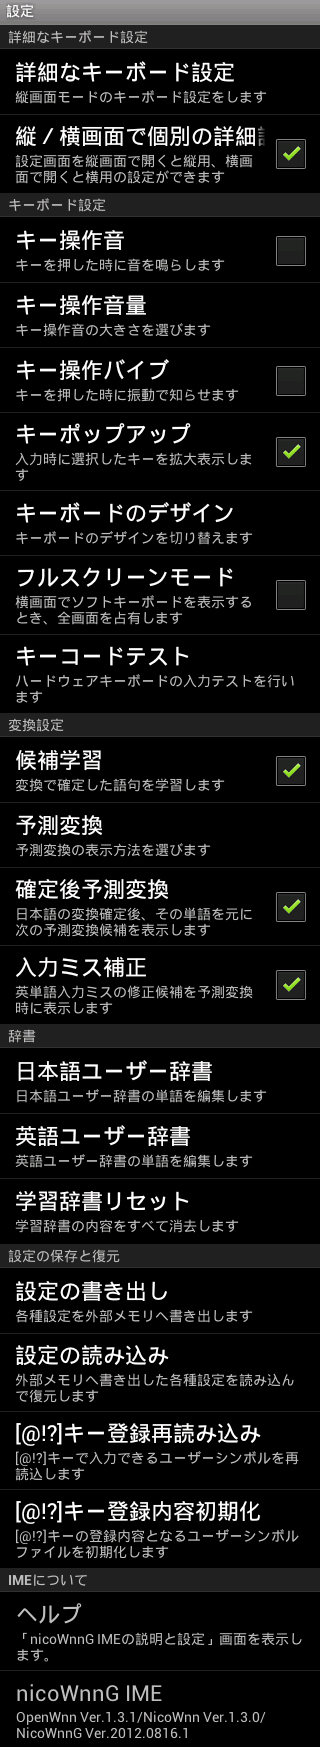
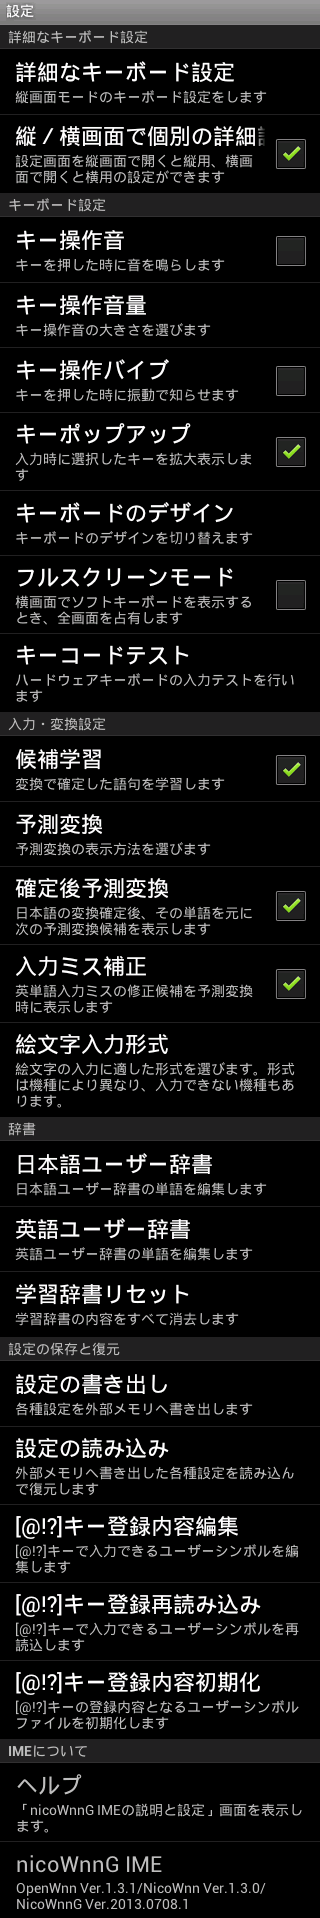
2013_0708_1

diff --git a/help/system.html b/help/system.html
@@ -136,7 +136,7 @@
 </TR>
 <TR>
 
-<TH id="config_003">変換設定</TH>
+<TH id="config_003">入力・変換設定</TH>
 
 <TD>
 
@@ -174,6 +174,103 @@
 <DT id="correct">入力ミス補正</DT>
 <DD>
 <DIV>チェックをONにすると、英単語入力時にミス修正候補を表示します。予測変換を行うときのみ有効です。</DIV>
+</DD>
+
+<DT id="emojitype">絵文字入力形式</DT>
+<DD>
+<DIV>絵文字の入力方法を選びます。</DIV>
+<TABLE border="1">
+<TR>
+<TH>NTTドコモ/ソフトバンクモバイル/au KDDI</TH>
+<TD>各社キャリア端末の絵文字に対応した入力をします。</TD>
+</TR>
+<TR>
+<TH>Unicode</TH>
+<TD>キャリアに依存しない絵文字に対応した入力をします。</TD>
+</TR>
+<TR>
+<TH>旧ドコモ互換（OS4.0未満用）</TH>
+<TD>OS2.3以下のNTTドコモ端末の絵文字に対応した入力をします。</TD>
+</TR>
+</TABLE>
+<DIV class="fyi">
+<DIV>絵文字の表示は、絵文字のフォントデータを持った端末のみで行うことができます。また、絵文字の入力は、絵文字の入力に対応したアプリでのみ行うことができます。</DIV>
+<DIV>作者の手許で入力・表示を確認した機種は以下の通りです。アプリは「<A HREF="https://play.google.com/store/apps/details?id=jp.sblo.pandora.jota.plus">Jota+</A>」を使用しています。</DIV>
+<TABLE border="1">
+<TR>
+<TH>キャリア</TH>
+<TH>機種</TH>
+<TH>OS</TH>
+<TH>OK/NG</TH>
+</TR>
+<TR>
+<TD>NTTドコモ</TD>
+<TD>Galaxy TAB SC-01C</TD>
+<TD>2.3.3</TD>
+<TD>OK</TD>
+</TR>
+<TR>
+<TD>NTTドコモ</TD>
+<TD>Xperia PLAY SO-01D</TD>
+<TD>2.3.4</TD>
+<TD>NG</TD>
+</TR>
+<TR>
+<TD>NTTドコモ</TD>
+<TD>Galaxy Note SC-02E</TD>
+<TD>4.0.4</TD>
+<TD>OK</TD>
+</TR>
+<TR>
+<TD>NTTドコモ</TD>
+<TD>ARROWS Me F-11D</TD>
+<TD>4.0.3</TD>
+<TD>OK</TD>
+</TR>
+<TR>
+<TD>ソフトバンクモバイル</TD>
+<TD>AQUOS PHONE 104SH</TD>
+<TD>4.0.3</TD>
+<TD>OK</TD>
+</TR>
+<TR>
+<TD>ソフトバンクモバイル</TD>
+<TD>STREAM 201HW</TD>
+<TD>4.0.4</TD>
+<TD>NG</TD>
+</TR>
+<TR>
+<TD>au KDDI</TD>
+<TD>AQUOS PHONE IS15SH</TD>
+<TD>4.0.4</TD>
+<TD>OK</TD>
+</TR>
+<TR>
+<TD>au KDDI</TD>
+<TD>IS01</TD>
+<TD>1.6</TD>
+<TD>NG</TD>
+</TR>
+<TR>
+<TD>Google</TD>
+<TD>Nexus S</TD>
+<TD>4.1.1</TD>
+<TD>NG</TD>
+</TR>
+<TR>
+<TD>Google</TD>
+<TD>Nexus 7</TD>
+<TD>4.2.2</TD>
+<TD>NG</TD>
+</TR>
+<TR>
+<TD>Google</TD>
+<TD>Nexus 10</TD>
+<TD>4.2.2</TD>
+<TD>NG</TD>
+</TR>
+</TABLE>
+</DIV>
 </DD>
 
 </DL>

diff --git a/help/faq.html b/help/faq.html
@@ -69,7 +69,7 @@
 <LI>絵文字の表示に対応したフォントを使用している。
 </OL>
 <DIV>Androidでは、すべてのアプリが絵文字の入力に対応しているわけではありません。お使いのアプリが絵文字の入力に対応しているかどうかは、アプリの製作者にお問い合わせください。</DIV>
-<DIV>また、アプリが絵文字の入力に対応していても、表示に使用しているフォントに絵文字の字形が内蔵されていないと、入力した絵文字が正しく表示されません（nicoWnnGのウィンドウ内では、絵文字の表示にはフォントに内蔵された字形ではなく、あらかじめ内部で用意した画像データを表示しています）。ご利用のフォントに絵文字の字形が内蔵されているかどうかは、フォントのメーカーなどにお問い合わせください。</DIV>
+<DIV>また、アプリが絵文字の入力に対応していても、表示に使用しているフォントに絵文字の字形が内蔵されていないと、入力した絵文字が正しく表示されません。ご利用のフォントに絵文字の字形が内蔵されているかどうかは、フォントのメーカーなどにお問い合わせください。</DIV>
 </DD>
 
 

diff --git a/help/index.html b/help/index.html
@@ -96,6 +96,19 @@
 <DL class="item">
 
 
+<DT>Ver.2013.0708.1</DT>
+<DD>
+<UL>
+  <LI>12キー入力モードが２タッチ系・QWERTY入力モードがJISかなのとき、ハードキーを接続してひらがなを入力しようとするとローマ字入力になってしまうのを修正しました。
+  <LI>QWERTY入力モードがJISかなで、キーマップの変換が「JISキーボードを使用」のとき、ハードキーのマッピングが一部正しくなくなっていたのを修正しました。
+  <LI>12キー入力モードがトグル・「[Shift]キーを使用する」がOFFのとき、１文字以上入力していると[Shift]キーが現れてしまうのを修正しました。
+  <LI>辞書インポート時に途中で登録を中断してしまうことがあったバグを修正しました。
+  <LI>[設定]-[絵文字入力形式]を追加し、Android4.0以降でサポートされた絵文字入力に対応しました。
+
+</UL>
+</DD>
+
+
 <DT>Ver.2013.0425.1</DT>
 <DD>
 <UL>

diff --git a/assets/openwnn_main.html b/assets/openwnn_main.html
@@ -20,7 +20,7 @@ nicoWnnG IMEの説明と設定
 <!--
 -->
 
-<DIV align="right" style="margin: 1em 0 1em 0";>Ver.2013.0425.1</DIV>
+<DIV align="right" style="margin: 1em 0 1em 0";>Ver.2013.0708.1</DIV>
 
 <TABLE border="0">
 <TR>

diff --git a/src/net/gorry/android/input/nicownng/NicoWnnGDictionaryImpl.java b/src/net/gorry/android/input/nicownng/NicoWnnGDictionaryImpl.java
@@ -18,6 +18,7 @@ package net.gorry.android.input.nicownng;
 
 import java.io.File;
 
+import android.R.integer;
 import android.content.ContentValues;
 import android.database.DatabaseUtils;
 import android.database.SQLException;
@@ -884,27 +885,29 @@ public class NicoWnnGDictionaryImpl implements WnnDictionary {
             int count = cursor.getCount();
             cursor.close();
 
-            if( count + word.length > MAX_WORDS_IN_USER_DICTIONARY ) {
-                /* If user dictionary is full, an error occurs. */
-                return -1;
+            int words = word.length;
+            if (words > MAX_WORDS_IN_USER_DICTIONARY-count) {
+            	words = MAX_WORDS_IN_USER_DICTIONARY-count;
             }
 			mDbDic.beginTransaction();
 			try {
 			    StringBuilder strokeSQL    = new StringBuilder();
 			    StringBuilder candidateSQL = new StringBuilder();
 
-			    for( int index = 0 ; index < word.length ; index++ ) {
+			    for( int index=0; index < words; index++ ) {
+			    	boolean noreg = false;
 			    	if (progress != null) {
 			    		if ((index % 100) == 0) {
 			    			progress.run();
 			    		}
 			    	}
-			        if( word[index].stroke.length()    > 0 && word[index].stroke.length()    <= MAX_STROKE_LENGTH &&
-			            word[index].candidate.length() > 0 && word[index].candidate.length() <= MAX_CANDIDATE_LENGTH ) {
+			    	WnnWord w = word[index];
+			    	if (w.stroke.length()    > 0 && w.stroke.length()    <= MAX_STROKE_LENGTH &&
+			            w.candidate.length() > 0 && w.candidate.length() <= MAX_CANDIDATE_LENGTH ) {
 			            strokeSQL.setLength( 0 );
 			            candidateSQL.setLength( 0 );
-			            DatabaseUtils.appendEscapedSQLString( strokeSQL, word[index].stroke );
-			            DatabaseUtils.appendEscapedSQLString( candidateSQL, word[index].candidate );
+			            DatabaseUtils.appendEscapedSQLString( strokeSQL, w.stroke );
+			            DatabaseUtils.appendEscapedSQLString( candidateSQL, w.candidate );
 
 			            // if (false) {
 			            	cursor = ( SQLiteCursor )mDbDic.query(
@@ -919,23 +922,21 @@ public class NicoWnnGDictionaryImpl implements WnnDictionary {
 			            	if( cursor.getCount() > 0 ) {
 			            		/* if the specified word is exist, an error reported and skipped that word. */
 			            		result = -2;
+			            		noreg = true;
 			            	}
 			            	cursor.close( );
 			            	cursor = null;
 			            // }
-			            if (result != 0) {
-			            	break;
+			            	if (!noreg) {
+			            		ContentValues content = new ContentValues();
+			            		content.clear();
+			            		content.put( COLUMN_NAME_TYPE,      TYPE_NAME_USER );
+			            		content.put( COLUMN_NAME_STROKE,    w.stroke );
+			            		content.put( COLUMN_NAME_CANDIDATE, w.candidate );
+			            		content.put( COLUMN_NAME_POS_LEFT,  w.partOfSpeech.left );
+			            		content.put( COLUMN_NAME_POS_RIGHT, w.partOfSpeech.right );
+			            		mDbDic.insert( TABLE_NAME_DIC, null, content );
 			            }
-
-			            ContentValues content = new ContentValues();
-			            content.clear();
-			            content.put( COLUMN_NAME_TYPE,      TYPE_NAME_USER );
-			            content.put( COLUMN_NAME_STROKE,    word[index].stroke );
-			            content.put( COLUMN_NAME_CANDIDATE, word[index].candidate );
-			            content.put( COLUMN_NAME_POS_LEFT,  word[index].partOfSpeech.left );
-			            content.put( COLUMN_NAME_POS_RIGHT, word[index].partOfSpeech.right );
-			            mDbDic.insert( TABLE_NAME_DIC, null, content );
-
 			        }
 			    }
 			    mDbDic.setTransactionSuccessful();

diff --git a/src/net/gorry/android/input/nicownng/NicoWnnGJAJP.java b/src/net/gorry/android/input/nicownng/NicoWnnGJAJP.java
@@ -2235,12 +2235,16 @@ public class NicoWnnGJAJP extends NicoWnnG {
 				switch (mUseConvertKeyMap) {
 					case CONVERT_KEYMAP_KB_US_OS_US:
 						return keyCodeUs2JisFullHiraganaShiftCharTable[keyCode];
+					case CONVERT_KEYMAP_KB_JIS_OS_US:
+						return keyCodeUs2JisFullHiraganaShiftCharTable[keyCode];
 					default:
 						return keyCodeJis2JisFullHiraganaShiftCharTable[keyCode];
 				}
 			}
 			switch (mUseConvertKeyMap) {
 				case CONVERT_KEYMAP_KB_US_OS_US:
+					return keyCodeUs2JisFullHiraganaCharTable[keyCode];
+				case CONVERT_KEYMAP_KB_JIS_OS_US:
 					return keyCodeUs2JisFullHiraganaCharTable[keyCode];
 				default:
 					return keyCodeJis2JisFullHiraganaCharTable[keyCode];
@@ -2719,12 +2723,16 @@ public class NicoWnnGJAJP extends NicoWnnG {
 				switch (mUseConvertKeyMap) {
 					case CONVERT_KEYMAP_KB_US_OS_US:
 						return keyCodeUs2JisFullKatakanaShiftCharTable[keyCode];
+					case CONVERT_KEYMAP_KB_JIS_OS_US:
+						return keyCodeUs2JisFullKatakanaShiftCharTable[keyCode];
 					default:
 						return keyCodeJis2JisFullKatakanaShiftCharTable[keyCode];
 				}
 			}
 			switch (mUseConvertKeyMap) {
 				case CONVERT_KEYMAP_KB_US_OS_US:
+					return keyCodeUs2JisFullKatakanaCharTable[keyCode];
+				case CONVERT_KEYMAP_KB_JIS_OS_US:
 					return keyCodeUs2JisFullKatakanaCharTable[keyCode];
 				default:
 					return keyCodeJis2JisFullKatakanaCharTable[keyCode];
@@ -3203,12 +3211,16 @@ public class NicoWnnGJAJP extends NicoWnnG {
 				switch (mUseConvertKeyMap) {
 					case CONVERT_KEYMAP_KB_US_OS_US:
 						return keyCodeUs2JisHalfKatakanaShiftCharTable[keyCode];
+					case CONVERT_KEYMAP_KB_JIS_OS_US:
+						return keyCodeUs2JisHalfKatakanaShiftCharTable[keyCode];
 					default:
 						return keyCodeJis2JisHalfKatakanaShiftCharTable[keyCode];
 				}
 			}
 			switch (mUseConvertKeyMap) {
 				case CONVERT_KEYMAP_KB_US_OS_US:
+					return keyCodeUs2JisHalfKatakanaCharTable[keyCode];
+				case CONVERT_KEYMAP_KB_JIS_OS_US:
 					return keyCodeUs2JisHalfKatakanaCharTable[keyCode];
 				default:
 					return keyCodeJis2JisHalfKatakanaCharTable[keyCode];

diff --git a/src/net/gorry/android/input/nicownng/SymbolList.java b/src/net/gorry/android/input/nicownng/SymbolList.java
@@ -170,12 +170,34 @@ public class SymbolList implements WnnEngine {
 					}
 				} while (userentry);
 
-				mSymbols.put(SYMBOL_DOCOMO_EMOJI00, getXmlfile(R.xml.symbols_docomo_emoji00_list));
-				mSymbols.put(SYMBOL_DOCOMO_EMOJI01, getXmlfile(R.xml.symbols_docomo_emoji01_list));
+				final SharedPreferences pref = PreferenceManager.getDefaultSharedPreferences(mWnn);
+				int emoji_type = Integer.valueOf(pref.getString("emoji_type", "1"));
+				switch (emoji_type) {
+				  default:
+				  case 0:
+					mSymbols.put(SYMBOL_DOCOMO_EMOJI00, getXmlfile(R.xml.symbols_docomo_emoji00_list));
+					mSymbols.put(SYMBOL_DOCOMO_EMOJI01, getXmlfile(R.xml.symbols_docomo_emoji01_list));
+					break;
+				  case 1:
+					mSymbols.put(SYMBOL_DOCOMO_EMOJI00, getXmlfile(R.xml.symbols_google_docomo_emoji00_list));
+					mSymbols.put(SYMBOL_DOCOMO_EMOJI01, getXmlfile(R.xml.symbols_google_docomo_emoji01_list));
+					break;
+				  case 2:
+					mSymbols.put(SYMBOL_DOCOMO_EMOJI00, getXmlfile(R.xml.symbols_google_softbank_emoji00_list));
+					mSymbols.put(SYMBOL_DOCOMO_EMOJI01, getXmlfile(R.xml.symbols_google_softbank_emoji01_list));
+					break;
+				  case 3:
+					mSymbols.put(SYMBOL_DOCOMO_EMOJI00, getXmlfile(R.xml.symbols_google_kddi_emoji00_list));
+					mSymbols.put(SYMBOL_DOCOMO_EMOJI01, getXmlfile(R.xml.symbols_google_kddi_emoji01_list));
+					break;
+				  case 4:
+					mSymbols.put(SYMBOL_DOCOMO_EMOJI00, getXmlfile(R.xml.symbols_google_unicode_emoji00_list));
+					mSymbols.put(SYMBOL_DOCOMO_EMOJI01, getXmlfile(R.xml.symbols_google_unicode_emoji01_list));
+					break;
+				}
 
 				final NicoWnnGJAJP t = NicoWnnGJAJP.getInstance();
 				final DefaultSoftKeyboard inputManager = ((DefaultSoftKeyboard)(t.mInputViewManager));
-				final SharedPreferences pref = PreferenceManager.getDefaultSharedPreferences(mWnn);
 				boolean addsymbolsemoji;
 				if (inputManager.getKeyboardType() == DefaultSoftKeyboard.KEYBOARD_12KEY) {
 					addsymbolsemoji = mWnn.getOrientPrefBoolean(pref, "symbol_addsymbolemoji_12key", true);

diff --git a/src/net/gorry/android/input/nicownng/JAJP/DefaultSoftKeyboardToggle.java b/src/net/gorry/android/input/nicownng/JAJP/DefaultSoftKeyboardToggle.java
@@ -1283,16 +1283,20 @@ public class DefaultSoftKeyboardToggle extends DefaultSoftKeyboardJAJP {
 	@Override
 	public void setReverseKey() {
 		if (mCurrentKeyboard != null) {
-			mCurrentKeyboard.assign12KeyReverse(true);
-			mKeyboardView.invalidateKey(mCurrentKeyboard.setReverseKeyIndex());
+			if (mUse12KeyShift) {
+				mCurrentKeyboard.assign12KeyReverse(true);
+				mKeyboardView.invalidateKey(mCurrentKeyboard.setReverseKeyIndex());
+			}
 		}
 	}
 
 	@Override
 	public void restoreReverseKey() {
 		if (mCurrentKeyboard != null) {
-			mCurrentKeyboard.assign12KeyReverse(false);
-			mKeyboardView.invalidateKey(mCurrentKeyboard.setReverseKeyIndex());
+			if (mUse12KeyShift) {
+				mCurrentKeyboard.assign12KeyReverse(false);
+				mKeyboardView.invalidateKey(mCurrentKeyboard.setReverseKeyIndex());
+			}
 		}
 	}
 

diff --git a/src/net/gorry/android/input/nicownng/DefaultSoftKeyboard.java b/src/net/gorry/android/input/nicownng/DefaultSoftKeyboard.java
@@ -2404,6 +2404,9 @@ public class DefaultSoftKeyboard implements InputViewManager, KeyboardView.OnKey
 				if (mCurrentKeyMode == KEYMODE_JA_FULL_HIRAGANA) {
 					return true;
 				}
+				if (mCurrentKeyMode == KEYMODE_JA_FULL_NICO) {
+					return true;
+				}
 				break;
 		}
 		return false;
@@ -2413,6 +2416,9 @@ public class DefaultSoftKeyboard implements InputViewManager, KeyboardView.OnKey
 		switch (mQwertyKanaMode) {
 			case KANAMODE_JIS:
 			case KANAMODE_JIS2:
+				if (mCurrentKeyMode == KEYMODE_JA_FULL_KATAKANA) {
+					return true;
+				}
 				if (mCurrentKeyMode == KEYMODE_JA_FULL_KATAKANA) {
 					return true;
 				}

diff --git a/src/net/gorry/android/input/nicownng/ConfigBackup.java b/src/net/gorry/android/input/nicownng/ConfigBackup.java
@@ -74,6 +74,7 @@ public class ConfigBackup {
 		copyElementString ("convert_keymap_type", "0", true);
 		copyElementString ("cutpasteaction_byime", "3", true);
 		copyElementBoolean("different_pl", true, false);
+		copyElementString ("emoji_type", "1", true);
 		copyElementBoolean("english_predict_12key", true, true);
 		copyElementBoolean("english_predict_qwerty", false, true);
 		copyElementBoolean("flick_guide", true, true);
